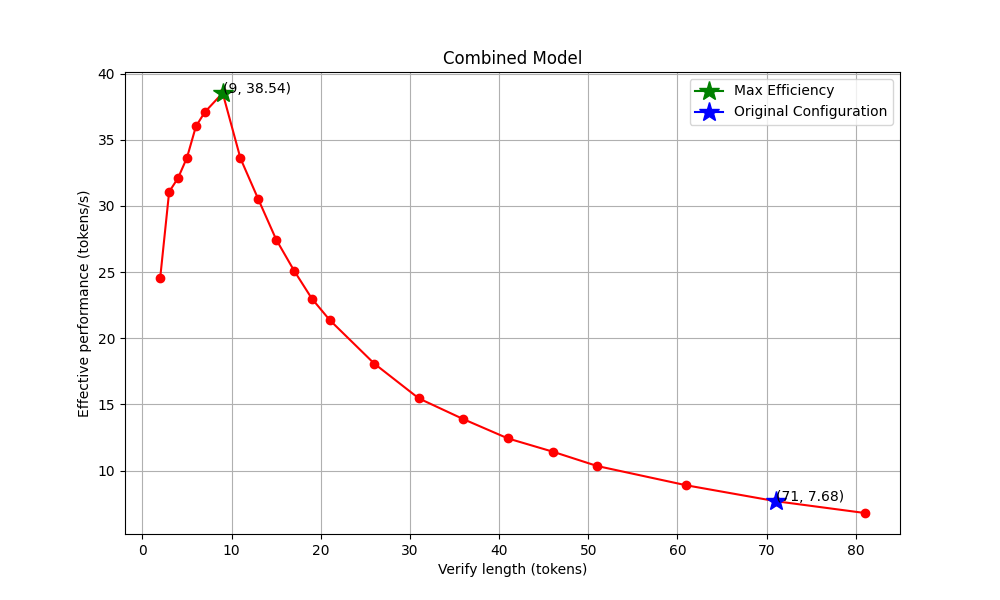
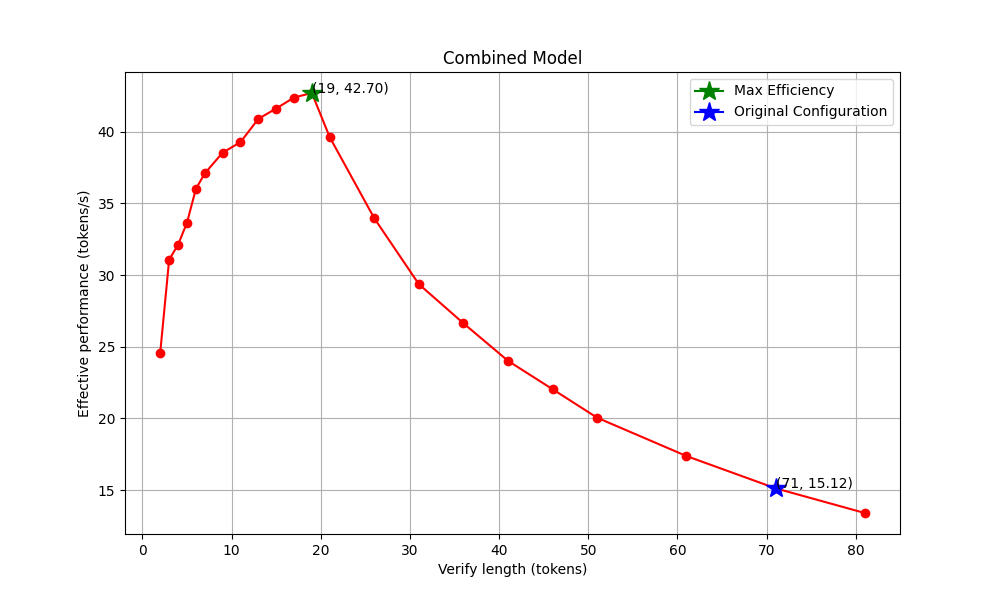
longspec支持了更多的模型

diff --git a/roofline/run_longspec_v2.py b/roofline/run_longspec_v2.py
@@ -201,7 +201,118 @@ def test_vicuna_v15_13B():
                         accepted_lengths=AATs, save_path=f"Figures/longspec_other_models/vicuna_v15_13B/combined_model.png", batch_size=1, ori_x=71, naive_x=None)
     # 原始配置其实是68，不过我没有对它进行测试，所以就用71来代替了
 
+
+def test_longchat_7b():
+    """
+    测试longchat-7B模型的加速比.
+    实验数据来自Data/表4-1.xlsx。
+    Longchat-7B实际上架构也就是llama-2-7b的。
+    """
+    parser = parse_args()
+    parser.add_argument("--avg_accepted_tokens",    type=int,   default=4   ,     help="the average number of accepted tokens per iteration."         )
+    parser.add_argument("--gamma",                  type=int,   default=1,        help="it's similar to total_tokens, (depth+1) in eagle algorithm."  )
+    parser.add_argument("--tree_shape", nargs="+",  type=int, default=[4, 16, 16, 16, 16], help="the tree shape of the draft token tree." )
+    args = parser.parse_args()
+    args.batch_size = 1
+
+    # 首先修改模型的超参数, 修改成vicuna-v1.5-7B的配置
+    args.hidden_size = 4096
+    args.intermediate_size = 11008
+    args.num_layers = 32
+    args.num_heads = 32
+    args.head_dim = 128
+    args.vocab_size = 32000
+    args.kv_scale = 1.0  # 不进行GQA
+
+    # 读取数据
+    data_dir = "./Data/表4-1.xlsx"
+    df = pd.read_excel(data_dir, skiprows=1, header=None)
+    gammas = df.iloc[:, 0].tolist()
+    verify_lens = [gamma + 1 for gamma in gammas]   # 大模型校验时的输入数据长度
+    tree_shapes = df.iloc[:, 1].tolist()            # 树形投机采样的树形结构
+    AATs = df.iloc[:, 4].tolist()     
+
+    # 目前只针对prefill length=1024进行了实验
+    args.prompt_len = 1024
+    verify_times = []
+    draft_times = []
+    for total_token, AAT, tree_shape in zip(verify_lens, AATs, tree_shapes):
+        aat = int(AAT)
+        args.tree_shape = [int(x) for x in tree_shape.split()]
+        # 小模型的draft阶段
+        _, _, _, fused_draft_cycles = longspec_draft_cycles_comp(args, input_len=aat, kv_len=args.prompt_len, method="tree")
+        # 大模型的verify阶段
+        _, _, _, fused_verify_cycles = llama3_cycles_comp(args, input_len=total_token, kv_len=args.prompt_len)
+        draft_time = fused_draft_cycles / (args.clock_frequency * 1e6)
+        verify_time = fused_verify_cycles / (args.clock_frequency * 1e6)
+        verify_times.append(verify_time)
+        draft_times.append(draft_time)
+    draw_roofline(prefill_lengths=verify_lens, times=verify_times, save_path=f"Figures/longspec_other_models/longchat_7B/roofline_model.png")
+    draw_roofline_discount(prefill_lengths=verify_lens, verify_times=verify_times, draft_times=draft_times, 
+                            save_path=f"Figures/longspec_other_models/longchat_7B/discounted_roofline_model.png")
+    draw_acc(prefill_lengths=verify_lens, accepted_lengths=AATs, save_path=f"Figures/longspec_other_models/longchat_7B/acc.png")
+    draw_combined_model(prefill_lengths=verify_lens, verify_times=verify_times, draft_times=draft_times, 
+                        accepted_lengths=AATs, save_path=f"Figures/longspec_other_models/longchat_7B/combined_model.png", batch_size=1, ori_x=71, naive_x=None)
+    # 原始配置其实是68，不过我没有对它进行测试，所以就用71来代替了
+
+
+def test_longchat_13B():
+    """
+    测试longchat-13B模型的加速比.
+    实验数据来自Data/表4-1.xlsx。
+    实验结果：相当不错。
+    """
+    parser = parse_args()
+    parser.add_argument("--avg_accepted_tokens",    type=int,   default=4   ,     help="the average number of accepted tokens per iteration."         )
+    parser.add_argument("--gamma",                  type=int,   default=1,        help="it's similar to total_tokens, (depth+1) in eagle algorithm."  )
+    parser.add_argument("--tree_shape", nargs="+",  type=int, default=[4, 16, 16, 16, 16], help="the tree shape of the draft token tree." )
+    args = parser.parse_args()
+    args.batch_size = 1
+    
+    # 首先修改模型的超参数
+    args.hidden_size = 5120
+    args.intermediate_size = 13824
+    args.num_layers = 40
+    args.num_heads = 40
+    args.head_dim = 128
+    args.vocab_size = 32000
+    args.kv_scale = 1.0  # 不进行GQA
+
+    # 读取数据
+    data_dir = "./Data/表4-1.xlsx"
+    df = pd.read_excel(data_dir, skiprows=1, header=None)
+    gammas = df.iloc[:, 0].tolist()
+    verify_lens = [gamma + 1 for gamma in gammas]   # 大模型校验时的输入数据长度
+    tree_shapes = df.iloc[:, 1].tolist()            # 树形投机采样的树形结构
+    AATs = df.iloc[:, 5].tolist()                   # 提取本模型对应的列的AAT数据
+
+    # 目前只针对prefill length=1024进行了实验
+    args.prompt_len = 1024
+    verify_times = []
+    draft_times = []
+    for total_token, AAT, tree_shape in zip(verify_lens, AATs, tree_shapes):
+        aat = int(AAT)
+        args.tree_shape = [int(x) for x in tree_shape.split()]
+        # 小模型的draft阶段
+        _, _, _, fused_draft_cycles = longspec_draft_cycles_comp(args, input_len=aat, kv_len=args.prompt_len, method="tree")
+        # 大模型的verify阶段
+        _, _, _, fused_verify_cycles = llama3_cycles_comp(args, input_len=total_token, kv_len=args.prompt_len)
+        draft_time = fused_draft_cycles / (args.clock_frequency * 1e6)
+        verify_time = fused_verify_cycles / (args.clock_frequency * 1e6)
+        verify_times.append(verify_time)
+        draft_times.append(draft_time)
+    draw_roofline(prefill_lengths=verify_lens, times=verify_times, save_path=f"Figures/longspec_other_models/longchat_13B/roofline_model.png")
+    draw_roofline_discount(prefill_lengths=verify_lens, verify_times=verify_times, draft_times=draft_times, 
+                            save_path=f"Figures/longspec_other_models/longchat_13B/discounted_roofline_model.png")
+    draw_acc(prefill_lengths=verify_lens, accepted_lengths=AATs, save_path=f"Figures/longspec_other_models/longchat_13B/acc.png")
+    draw_combined_model(prefill_lengths=verify_lens, verify_times=verify_times, draft_times=draft_times, 
+                        accepted_lengths=AATs, save_path=f"Figures/longspec_other_models/longchat_13B/combined_model.png", batch_size=1, ori_x=71, naive_x=None)
+    # 原始配置其实是68，不过我没有对它进行测试，所以就用71来代替了
+
+
 if __name__ == "__main__":
     # main()
     # test_vicuna_v15_7B()
-    test_vicuna_v15_13B()
+    # test_vicuna_v15_13B()
+    # test_longchat_7b()
+    test_longchat_13B()
